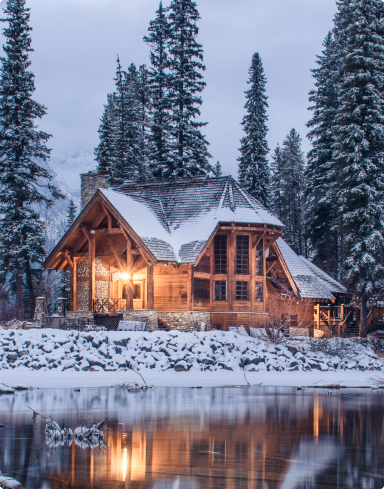
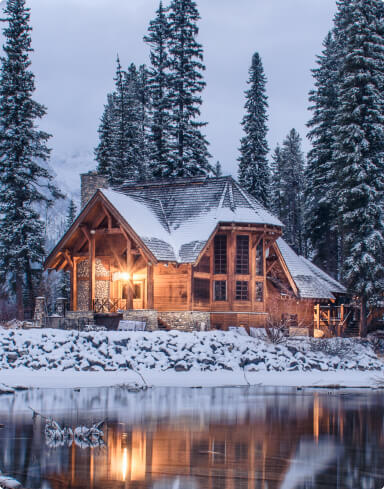
Оптимизированы картинки, исправлены ошибки валидации

diff --git a/index.html b/index.html
@@ -27,11 +27,11 @@
 
     <div class="container">
       <section class="booking-house">
-        <article class="booking-house__text">
+        <div class="booking-house__text">
           <h2 class="booking-house__title">Аренда загородного дома для&nbsp;отдыха</h2>
           <p class="booking-house__subtitle">Самые выгодные предложения по аренде коттеджей и загородных домов в Москве и области</p>
           <a href="#!" class="booking-house__button button">Бронирование</a>
-        </article>
+        </div>
         <div class="booking-house__images">
           <img src="./images/booking-screen/house-1.jpg" alt="Загородный дом, первая треть" class="booking-house__image dropping-image">
           <img src="./images/booking-screen/house2.jpg" alt="Загородный дом, вторая треть" class="booking-house__image rising-image">
@@ -40,7 +40,7 @@
       </section>
 
       <section class="about-us">
-        <img src="./images/about-us/norway-house.jpg" alt="Дом в Норвежском стиле" class="about-us__image rising-image">
+        <img src="./images/about-us/norway-house.jpg" alt="Дом в Норвежском стиле" class="about-us__image">
         <div class="about-us__text">
           <h2 class="about-us__title title">Уютный&nbsp;двухэтажный дом в норвежском стиле</h2>
           <p class="about-us__paragraph paragraph">Просторные коттеджи с видом на лес полностью укомплектованы: кондиционер, холодильник, посудомоечная машина, газовая плита, духовка, микроволновая печь, чайник, набор посуды и столовых приборов. В каждом коттедже: стиральная машина, гладильная станция, сушилка для белья, фен. </p>
@@ -48,7 +48,7 @@
         </div>
       </section>
 
-      <section class="benefits">
+      <section class="benefits" aria-label="Наши преимущества">
         <ul class="benefits__list">
           <li>
             <article class="benefits__item">
@@ -107,7 +107,7 @@
           <li class="reservation__card">
             <img src="images/reservation/big-house.jpg" alt="Маленький домик изнутри" class="reservation__image">
             <h3 class="reservation__card-title">Маленький домик</h3>
-            <p class="reservation__card-text">Уютный коттедж с  3 спальнями и  бильярдом.</p>
+            <p class="reservation__card-text">Уютный коттедж с 3 спальнями и бильярдом.</p>
             <a href="#!" class="reservation__card-link">Подробнее</a>
           </li>
           <li class="reservation__card">
@@ -119,7 +119,7 @@
           <li class="reservation__card">
             <img src="images/reservation/two-floors.jpg" alt="Двухэтажный дом у озера" class="reservation__image">
             <h3 class="reservation__card-title">Двухэтажный дом</h3>
-            <p class="reservation__card-text">Коттедж с сауной, четырьмя спальнями и бильярдом. Идеально подойдет для полноценного празднования нового года. </p>
+            <p class="reservation__card-text">Коттедж с сауной, четырьмя спальнями и бильярдом. Идеально подойдет для полноценного празднования нового года.</p>
             <a href="#!" class="reservation__card-link">Подробнее</a>
           </li>
         </ul>

diff --git a/blocks/header/__link/header__link.css b/blocks/header/__link/header__link.css
@@ -12,7 +12,7 @@
   height: 1px;
   display: block;
   background: #192252;
-  transition: all 0.2s ease-in;
+  transition: all 0.1s ease-in;
 }
 
 .header__link:hover::after {
@@ -28,11 +28,5 @@
 @media screen and (max-width: 768px) {
   .header__link {
     font-size: 12px;
-  }
-}
-
-@media screen and (max-width: 665px) {
-  .header__link {
-    font-size: 16px;
   }
 }

diff --git a/blocks/header/__nav/header__nav.css b/blocks/header/__nav/header__nav.css
@@ -14,7 +14,6 @@
 
 @media screen and (max-width: 665px) {
   .header__nav {
-    /* gap: 30px; */
     display: none;
   }
 }
